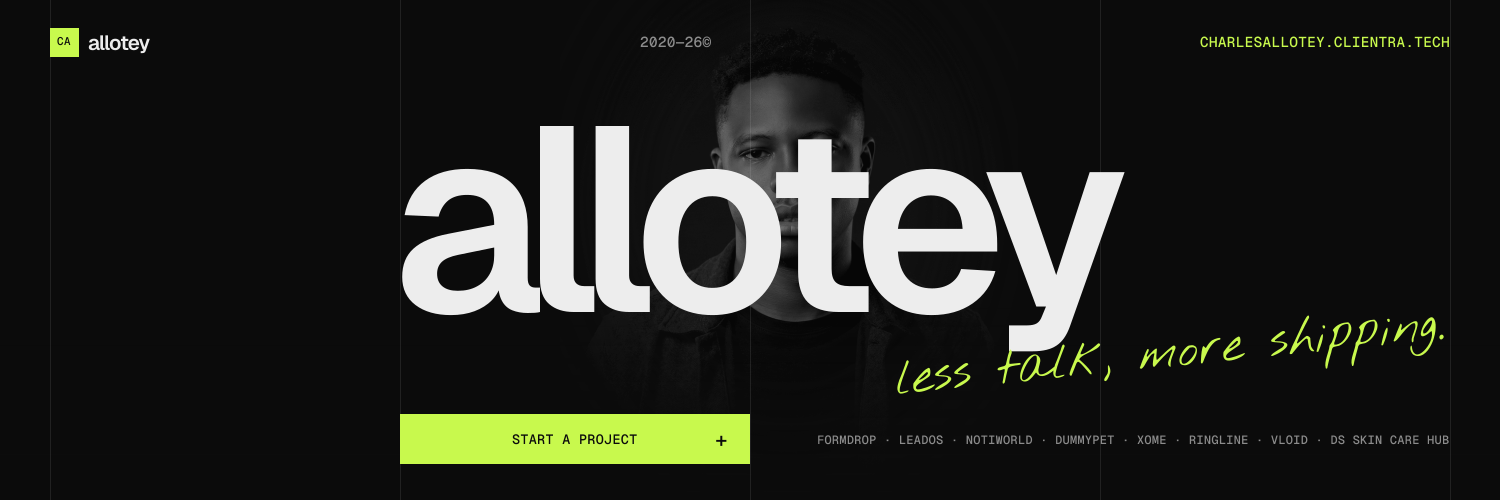
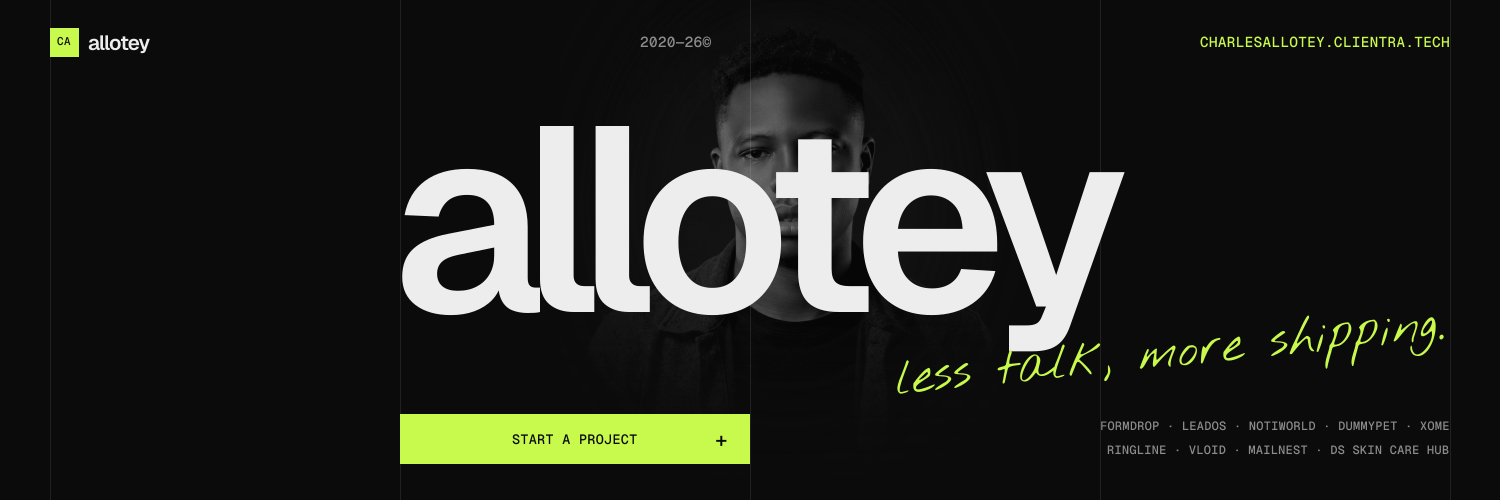
Add Mailnest and refresh five product screenshots
- Add Mailnest, the open-source local email catcher, taking the
  portfolio to ten products
- Recapture Vloid, leadOS, Notiworld, XOME and Ringline for their new
  designs; rename the images so cached optimised versions aren't reused
- Refresh Notiworld's blurb and tags and Vloid's tags to match their sites
- Say "under Clientra and in the open" now that Mailnest lives on GitHub
- Lay the hero strip out as 2 columns on phones, 2 rows of 5 on tablets
  and laptops, and one row on wide screens
- Split the X header's product list into two rows so it clears the
  action bar; update the metadata and share images for ten products

Changed region(s): [[0.552, 0.84, 0.9813, 0.93]]

diff --git a/src/data/projects.ts b/src/data/projects.ts
@@ -1,5 +1,5 @@
 export type Project = {
-  slug: "clientra" | "formdrop" | "leados" | "notiworld" | "dummypet" | "xome" | "ringline" | "vloid" | "dsskincarehub";
+  slug: "clientra" | "formdrop" | "leados" | "notiworld" | "dummypet" | "xome" | "ringline" | "vloid" | "mailnest" | "dsskincarehub";
   title: string;
   kind: string;
   blurb: string;
@@ -41,18 +41,18 @@ export const PROJECTS: Project[] = [
     tags: ["CRM", "WhatsApp dialer", "MoMo invoices"],
     domain: "leados.clientra.tech",
     href: "https://leados.clientra.tech/",
-    image: "/projects/leados.png",
+    image: "/projects/leados-v2.png",
   },
   {
     slug: "notiworld",
     title: "Notiworld",
     kind: "Notifications API",
     blurb:
-      "Reach your users after they close the tab. One API call sends your web app's notifications to their desktop and phone. No email server, no SMS bills, and users keep the off switch.",
-    tags: ["API", "Desktop app", "Push"],
+      "Reach your users after they close the tab. One API call puts your web app's notifications on their desktop and phone, with buttons they can answer. No email server, no SMS bills.",
+    tags: ["API", "Actionable alerts", "Desktop & phone"],
     domain: "notiworld.clientra.tech",
     href: "https://notiworld.clientra.tech/",
-    image: "/projects/notiworld.png",
+    image: "/projects/notiworld-v2.png",
   },
   {
     slug: "dummypet",
@@ -74,7 +74,7 @@ export const PROJECTS: Project[] = [
     tags: ["Creator search", "Escrow", "MoMo payouts"],
     domain: "xome.clientra.tech",
     href: "https://xome.clientra.tech/",
-    image: "/projects/xome-v2.png",
+    image: "/projects/xome-v3.png",
   },
   {
     slug: "ringline",
@@ -85,7 +85,7 @@ export const PROJECTS: Project[] = [
     tags: ["Live users", "In-browser calls", "Voice only"],
     domain: "ringline.clientra.tech",
     href: "https://ringline.clientra.tech/",
-    image: "/projects/ringline.png",
+    image: "/projects/ringline-v2.png",
   },
   {
     slug: "vloid",
@@ -93,10 +93,21 @@ export const PROJECTS: Project[] = [
     kind: "AI voice outreach",
     blurb:
       "Stop paying people to dial down a spreadsheet. Vloid's AI voice agents call your customer list, ask what you need to know and hand back answers you can filter. In early access.",
-    tags: ["Voice agents", "Campaigns", "Early access"],
+    tags: ["Voice agents", "Campaign briefs", "Early access"],
     domain: "vloid.clientra.tech",
     href: "https://vloid.clientra.tech/",
-    image: "/projects/vloid.png",
+    image: "/projects/vloid-v2.png",
+  },
+  {
+    slug: "mailnest",
+    title: "Mailnest",
+    kind: "Open-source dev tool",
+    blurb:
+      "Send the email, see it instantly. A local SMTP server with a live inbox: run npx mailnest, point your app at localhost:1025 and every message lands in front of you, checked for what breaks in real inboxes.",
+    tags: ["Open source", "SMTP", "Email checks"],
+    domain: "cnaallotey.github.io/mailnest",
+    href: "https://cnaallotey.github.io/mailnest/",
+    image: "/projects/mailnest.png",
   },
   {
     slug: "dsskincarehub",

diff --git a/src/app/layout.tsx b/src/app/layout.tsx
@@ -15,13 +15,13 @@ const SITE_URL = "https://charlesallotey.clientra.tech";
 export const metadata: Metadata = {
   metadataBase: new URL(SITE_URL),
   title: "Charles Nii Adotey Allotey — Full-Stack Developer",
-  description: "Full-stack developer in Accra building leadOS, FormDrop, Vloid, XOME, Ringline, Notiworld and DummyPet under Clientra. Fluent in Vue/Nuxt, React/Next.js, Node.js and Laravel.",
+  description: "Full-stack developer in Accra building leadOS, FormDrop, Vloid, XOME, Ringline, Notiworld, DummyPet and the open-source Mailnest. Fluent in Vue/Nuxt, React/Next.js, Node.js and Laravel.",
   keywords: ["Charles Allotey", "Full Stack Developer", "Vue School", "Vue 3", "Nuxt", "React", "Next.js", "TypeScript", "Node.js", "Laravel", "Backend Developer", "Accra", "Ghana"],
   authors: [{ name: "Charles Nii Adotey Allotey" }],
   // Share images come from app/opengraph-image.tsx and app/twitter-image.tsx
   openGraph: {
     title: "Charles Nii Adotey Allotey — Full-Stack Developer",
-    description: "I build products people actually use. Full-stack developer at Vue School and the builder behind Clientra: nine products, all live.",
+    description: "I build products people actually use. Full-stack developer at Vue School and the builder behind Clientra and Mailnest: ten products, all live.",
     url: SITE_URL,
     siteName: "Charles Allotey Portfolio",
     locale: "en_US",
@@ -30,7 +30,7 @@ export const metadata: Metadata = {
   twitter: {
     card: "summary_large_image",
     title: "Charles Nii Adotey Allotey — Full-Stack Developer",
-    description: "I build products people actually use. Full-stack developer at Vue School and the builder behind Clientra: nine products, all live.",
+    description: "I build products people actually use. Full-stack developer at Vue School and the builder behind Clientra and Mailnest: ten products, all live.",
     creator: "@adotey_",
   },
 };

diff --git a/src/app/page.tsx b/src/app/page.tsx
@@ -561,12 +561,12 @@ function Hero({ reduce, loaded }: { reduce: boolean; loaded: boolean }) {
         {/* Product strip */}
         <motion.ul {...fade(0.65)} className="flex flex-wrap justify-center border-t border-line">
           {PROJECTS.map((p) => (
-            <li key={p.slug} className="w-1/3 lg:w-auto lg:flex-auto">
+            <li key={p.slug} className="w-1/2 md:w-1/5 xl:w-auto xl:flex-auto">
               <a
                 href={p.href}
                 target="_blank"
                 rel="noopener noreferrer"
-                className="flex h-14 items-center justify-center gap-2 px-2 text-center text-[15px] font-semibold leading-tight tracking-[-0.03em] text-fg/70 transition-colors hover:text-accent lg:whitespace-nowrap"
+                className="flex h-14 items-center justify-center gap-2 px-2 text-center text-[15px] font-semibold leading-tight tracking-[-0.03em] text-fg/70 transition-colors hover:text-accent xl:whitespace-nowrap"
               >
                 <span className="h-1.5 w-1.5 bg-accent" />
                 {p.title}
@@ -749,7 +749,7 @@ function Work({ reduce }: { reduce: boolean }) {
               <MaskLines reduce={reduce} lines={[NUMBER_WORDS[PROJECTS.length], "products.", <span key="c" className="text-accent">All live.</span>]} />
             </h2>
             <p className="mt-6 max-w-xs text-[15px] leading-relaxed text-muted">
-              Things I design, build and run under Clientra. Not mockups, not a side-project graveyard.
+              Things I design, build and run, under Clientra and in the open. Not mockups, not a side-project graveyard.
             </p>
             <p className="mt-14 font-mono text-[11px] font-medium uppercase">Have one in mind?</p>
             <p className="mb-5 text-[15px] text-muted">Let&apos;s make it number {NUMBER_WORDS[PROJECTS.length + 1].toLowerCase()}.</p>

diff --git a/src/social/cards.tsx b/src/social/cards.tsx
@@ -220,9 +220,18 @@ function XHeader({ portrait }: { portrait: string }) {
       <Wordmark left={392} top={88} size={262} />
       <Scribble left={900} top={316} size={50} text="less talk, more shipping." />
       <ActionBar left={400} top={414} width={350} height={50} label="Start a project" />
-      <span style={{ position: "absolute", right: L.margin, top: 432, ...mono(12) }}>
-        {PROJECTS.slice(1).map((p) => p.title).join(" · ")}
-      </span>
+      {/* Two right-aligned rows so the list never runs into the action bar */}
+      <div style={{ position: "absolute", right: L.margin, top: 418, display: "flex", flexDirection: "column", alignItems: "flex-end", gap: 8 }}>
+        {[0, 1].map((row) => {
+          const titles = PROJECTS.slice(1).map((p) => p.title);
+          const half = Math.ceil(titles.length / 2);
+          return (
+            <span key={row} style={mono(12)}>
+              {(row === 0 ? titles.slice(0, half) : titles.slice(half)).join(" · ")}
+            </span>
+          );
+        })}
+      </div>
     </Canvas>
   );
 }
